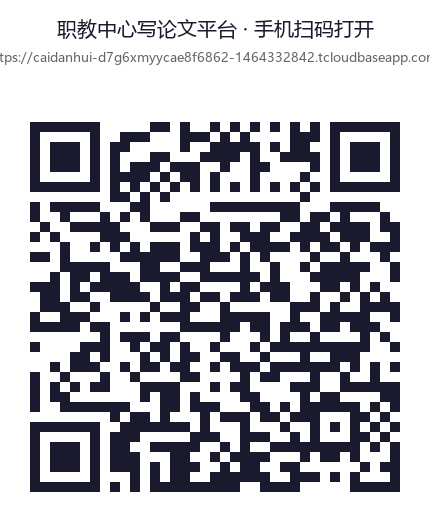
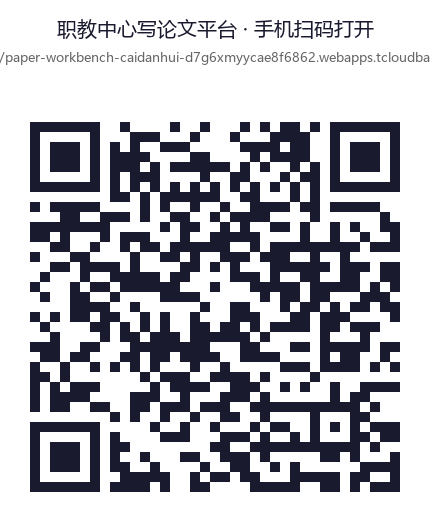
CloudBase 独立子域名部署（webapps.tcloudbase.com）：README/二维码/同事说明更新，与录音工具环境分离

diff --git a/给同事_平台使用说明_2026-08-07.md b/给同事_平台使用说明_2026-08-07.md
@@ -5,7 +5,7 @@
 ## 🚀 三秒上手
 
 1. **打开链接**（任选其一，国内推荐用 CloudBase）：
-   - 国内 CloudBase：https://caidanhui-d7g6xmyycae8f6862-1464332842.tcloudbaseapp.com/
+   - 国内 CloudBase：https://paper-workbench-caidanhui-d7g6xmyycae8f6862.webapps.tcloudbase.com/
    - 海外 GitHub Pages：https://caidanhui850111.github.io/paper-workbench/
    - 或扫下方二维码（已切换为 CloudBase 国内加速）
 
@@ -44,7 +44,7 @@
 
 | 入口 | 链接 | 特点 |
 |---|---|---|
-| **国内 CloudBase** | https://caidanhui-d7g6xmyycae8f6862-1464332842.tcloudbaseapp.com/ | 腾讯云静态托管，国内速度快，**公开无需登录** |
+| **国内 CloudBase** | https://paper-workbench-caidanhui-d7g6xmyycae8f6862.webapps.tcloudbase.com/ | 腾讯云静态托管，国内速度快，**公开无需登录** |
 | **海外 GitHub Pages** | https://caidanhui850111.github.io/paper-workbench/ | 永久备份链接，国外/翻墙后访问 |
 
 两个链接**功能完全一样、内容实时同步**。

diff --git a/README.md b/README.md
@@ -10,7 +10,7 @@
 
 | 方式 | 链接 / 操作 | 适合 |
 |---|---|---|
-| ① 在线使用（国内·推荐） | https://caidanhui-d7g6xmyycae8f6862-1464332842.tcloudbaseapp.com/ | 国内同事手机/电脑日常用，腾讯云 CloudBase 静态托管，公开无需登录 |
+| ① 在线使用（国内·推荐） | https://paper-workbench-caidanhui-d7g6xmyycae8f6862.webapps.tcloudbase.com/ | 国内同事手机/电脑日常用，腾讯云 CloudBase 静态托管，公开无需登录 |
 | ② 在线使用（海外） | https://caidanhui850111.github.io/paper-workbench/ | 国外访问、永久备份链接（GitHub Pages） |
 | ③ 本地离线 | 下载 `index.html` 双击打开 | 无网环境、数据完全本地 |
 
